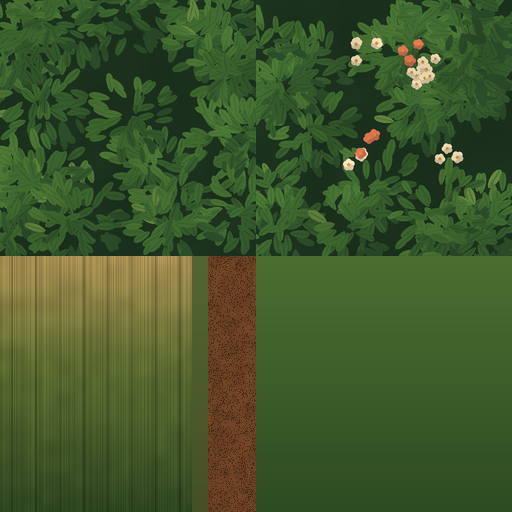
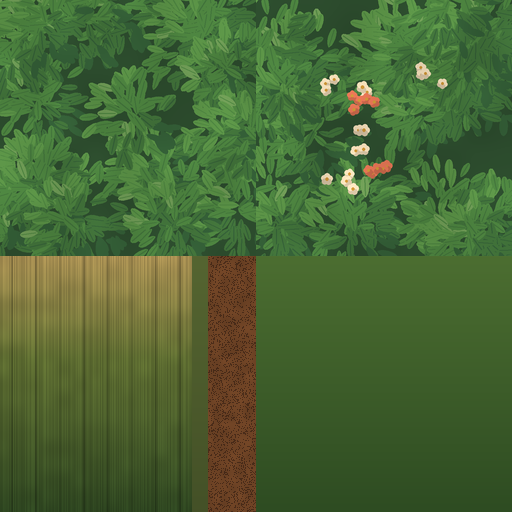
fix(garden): understory bushes soft and lighter (Fable review round 2)
No leaf-spray cards (they read as thorns). Five lobes at icosphere
subdivision 2 plus two puffs on the upper outline; faces under the lawn or
buried inside another lobe dropped: 320 tris a bush. Custom normals out from
(0, .4, 0) confirmed in the exported FBX (re-imported: 0 of 960 bush corners
flat). Vertex shade .7 to 1.0, tucks .86. Leaf atlas denser with lighter
pockets: region mean #427039 (target #3F6E3A), highlight #6E9A55. Reeds
unchanged (38). Renders redone, five views.

diff --git a/scripts/build_understory_meshes.py b/scripts/build_understory_meshes.py
@@ -11,11 +11,12 @@ forward -Z, up Y (as the nest landmark), so Roblox imports each mesh turned by p
 its origin at its bounds centre; the manifest records each mesh's bounds centre from the foot and its size, so the
 client seats it: CFrame.new(foot) * yaw * CFrame.new(centre * scale) * Turn, Size = size * scale.
 
-Budget (Fable review round 1): a bush at most 190 triangles, reeds at most 38. Reed blades and stems and the bush's
-leaf sprays are cards: each face is doubled back to back with its own vertices (Roblox culls back faces; a merged pair
-would smooth its normal to nothing). The bush's normals are custom split normals out from one point (one soft mass),
-and its shade is a vertex colour (.45 at the foot to 1.0 at the top, darker where lobes tuck together), which a MeshPart's
-TextureID multiplies (memory: roblox-surfaceappearance-runtime; the Aero falls kit ships vertex colour the same way).
+Budget (Fable review round 2): a bush at most 320 triangles, reeds at most 38. Reed blades and stems are cards: each
+face is doubled back to back with its own vertices (Roblox culls back faces; a merged pair would smooth its normal to
+nothing). The bush's normals are custom split normals out from one point (one soft mass); they reach the FBX (checked
+by re-importing it: every bush corner normal is the custom one, none flat). Its shade is a subtle vertex colour (.7 at
+the foot to 1.0 at the top, a little darker where lobes tuck together), which a MeshPart's TextureID multiplies
+(memory: roblox-surfaceappearance-runtime; the Aero falls kit ships vertex colour the same way).
 
 Writes assets/world/understory/understory.fbx and understory-manifest.json (names unique to this slice: memory note
 world-finish-template-names); with --render, renders the three meshes beside a player-height post (4.2) and a pet-size
@@ -44,11 +45,10 @@ REGION = {"bush": (0, 0, 256, 256), "flower": (256, 0, 512, 256), "blades": (0, 
           "stem": (192, 256, 208, 512), "head": (208, 256, 256, 512)}
 INSET = 4.0                                   # pixels kept off each region's edge (mip bleed)
 NAMES = {"bush": "Understory_B38_Bush", "flower": "Understory_B38_BushFlower", "reeds": "Understory_B38_Reeds"}
-TRIS_CAP = {"bush": 190, "flower": 190, "reeds": 38}
+TRIS_CAP = {"bush": 320, "flower": 320, "reeds": 38}
 BUSH_ACROSS, BUSH_TALL = 3.0, 2.0             # design size; the client scales each bush to 2.5 / 4 across
 GROUND = -.15                                 # Roblox-local y the bush's skirt sinks to (it sits, never perches)
 NORMAL_FROM = (0, .4, 0)                      # Roblox-local: every bush normal points out from here (one soft mass)
-FRINGE = 28                                   # leaf-spray cards on the upper outline and the lobe joins
 SEED = 20261127
 
 
@@ -70,28 +70,35 @@ def region_uv(name, u, v):
 
 
 # ----------------------------------------------------------------------------------------------------------- bush
-# Fable review round 1 (FIX FIRST: "mossy boulders that perch on a point"): a subdiv-2 dome and four subdiv-1 shoulder
-# lobes pushed by stronger noise (.3); under each lobe's centre the shape stops tapering, keeps its radius (flare x 1.1)
-# and drops to the ground, and the faces left wholly under the lawn are deleted; 28 leaf-spray cards break the upper
-# outline and the joins; normals point out from one point so it shades as one soft mass; one continuous dome unwrap
-# round the bush's axis (its top at the region's centre); a vertex shade .45 at the foot to 1.0 at the top, darker
-# where one lobe tucks into another.
-LOBES = (  # Roblox-local centre, radius, vertical squash, icosphere subdivisions (bmesh: 2 = 80 faces, 1 = 20)
-    ((0, 1.0, 0), 1.18, .82, 2),
-    ((.92, .6, .32), .74, .86, 1), ((-.3, .58, .9), .72, .84, 1),
-    ((-.94, .62, -.2), .76, .86, 1), ((.2, .56, -.92), .72, .84, 1),
+# Fable review rounds 1 and 2: five lobes, every one an icosphere at subdivisions 2 (bmesh: 80 faces) pushed by seeded
+# noise (.3); under each lobe's centre the shape stops tapering, keeps its radius (flare x 1.1) and drops into the lawn,
+# and the faces left wholly under the lawn or buried in another lobe are deleted, so it sits, never perches. Two small
+# round puffs on the upper outline soften the silhouette (Fable asked for two or three; two fit the 320 cap). Round 2:
+# the softness is geometry, not cards (the leaf-spray cards read as thorns and are gone).
+# Normals are custom split normals out from one point, so it shades as one soft mass; one continuous dome unwrap round
+# the bush's axis (its top at the region's centre); a subtle vertex shade, .7 at the foot to 1.0 at the top, a little
+# darker where one lobe tucks into another.
+LOBES = (  # Roblox-local centre, radius, vertical squash, icosphere subdivisions, skirt to the ground
+    ((0, 1.0, 0), 1.18, .82, 2, True),
+    ((.92, .6, .32), .74, .86, 2, True), ((-.3, .58, .9), .72, .84, 2, True),
+    ((-.94, .62, -.2), .76, .86, 2, True), ((.2, .56, -.92), .72, .84, 2, True),
+    # the puffs: small, high, no skirt (they sit in the outline, not on the lawn)
+    ((.62, 1.42, .34), .42, .9, 1, False), ((-.58, 1.38, -.3), .4, .9, 1, False),
 )
+SHADE = (.7, 1.0)          # vertex shade at the foot and the top
+TUCK = .86                 # the shade where one lobe tucks deepest into another
 
 
-def lump(bm, centre, radius, squash, subdiv, seed):
+def lump(bm, centre, radius, squash, subdiv, seed, skirt=True):
     made = bmesh.ops.create_icosphere(bm, subdivisions=subdiv, radius=1.0)
     off = Vector((seed * 3.7, seed * 1.3, seed * 2.1))
     c = bl(centre)
+    amp = .3 if skirt else .18
     for vert in made["verts"]:
         d = vert.co.normalized()
-        bump = noise.noise(d * 1.4 + off) * .3 + noise.noise(d * 3.2 + off * 2) * .08
+        bump = noise.noise(d * 1.4 + off) * amp + noise.noise(d * 3.2 + off * 2) * .08
         r = radius * (1 + bump)
-        if d.z >= 0:
+        if d.z >= 0 or not skirt:
             vert.co = Vector((d.x * r, d.y * r, d.z * r * squash)) + c
         else:
             # below the centre: no taper, the full radius flared x 1.1, straight down into the lawn
@@ -113,61 +120,42 @@ def dome_uv(region, p, centre, theta_max):
 
 
 def build_bush(name, region):
-    rnd = random.Random(SEED + 7)
     bm = bmesh.new()
     uv = bm.loops.layers.uv.new("UVMap")
     col = bm.loops.layers.color.new("Col")
     owner = {}
-    for k, (centre, radius, squash, subdiv) in enumerate(LOBES):
-        for v in lump(bm, centre, radius, squash, subdiv, k + 1):
+    for k, (centre, radius, squash, subdiv, skirt) in enumerate(LOBES):
+        for v in lump(bm, centre, radius, squash, subdiv, k + 1, skirt):
             owner[v] = k
     bmesh.ops.triangulate(bm, faces=bm.faces)
     under = [f for f in bm.faces if all(v.co.z <= GROUND + 1e-4 for v in f.verts)]
     bmesh.ops.delete(bm, geom=under, context="FACES")
-    # where one lobe tucks into another: darker (a factor per vertex, applied with the height shade below)
+
+    # faces buried inside another lobe are never seen: dropped (inside = under .62 of that lobe's radius, in its own
+    # squashed frame, the most its noise can pull a surface in)
+    def buried(co, k):
+        for j, (centre, radius, squash, _, _) in enumerate(LOBES):
+            if j == k:
+                continue
+            d = co - bl(centre)
+            if math.sqrt(d.x * d.x + d.y * d.y + (d.z / squash) ** 2) < radius * .62:
+                return True
+        return False
+    hidden = [f for f in bm.faces if all(buried(v.co, owner.get(v)) for v in f.verts)]
+    bmesh.ops.delete(bm, geom=hidden, context="FACES")
+    # where one lobe tucks into another: a little darker (a factor per vertex, applied with the height shade below)
     tuck = {}
     for v in bm.verts:
         k = owner.get(v)
         f = 1.0
-        for j, (centre, radius, _, _) in enumerate(LOBES):
+        for j, (centre, radius, _, _, _) in enumerate(LOBES):
             if j == k:
                 continue
             dist = (v.co - bl(centre)).length / radius
             if dist < 1.15:
-                f = min(f, .72 + .28 * max(0.0, (dist - .6) / .55))
+                f = min(f, TUCK + (1 - TUCK) * max(0.0, (dist - .6) / .55))
         tuck[v] = f
-    # fringe anchors: core vertices on the upper outline (far out for their height) and at the lobe joins
     axis = bl(NORMAL_FROM)
-    bm.verts.index_update()
-    cands = []
-    for v in bm.verts:
-        if v.co.z < .45 or not v.link_faces:
-            continue
-        score = math.hypot(v.co.x, v.co.y) * .6 + v.co.z * .5 + (1 - tuck[v]) * 3 + rnd.random() * .4
-        cands.append((-score, v.index, v.co.copy(), (v.co - axis).normalized()))
-    cands.sort(key=lambda c: (c[0], c[1]))
-    anchors = []
-    for _, _, co, n in cands:
-        if all((co - a).length > .42 for a, _ in anchors):
-            anchors.append((co, n))
-        if len(anchors) == FRINGE:
-            break
-    assert len(anchors) == FRINGE, len(anchors)
-    up = Vector((0, 0, 1))
-    for co, n in anchors:
-        # a spray lies along the surface toward the outline and tips out about 30 degrees, its foot buried, so only the
-        # leaf tip breaks the silhouette (straight out, the cards read as thorns)
-        along = up - n * up.dot(n)
-        along = (along if along.length > 1e-4 else n.orthogonal()).normalized()
-        direction = (along * .82 + n * .5).normalized()
-        base = co - n * .14
-        tip = base + direction * (.5 + rnd.random() * .2)
-        t = n.cross(up)
-        t = (t if t.length > 1e-4 else Vector((1, 0, 0))).normalized()
-        t = (Matrix.Rotation(rnd.uniform(-.6, .6), 3, direction) @ t).normalized()
-        w = .2 + rnd.random() * .06
-        card(bm, uv, col, [rb(base - t * w), rb(base + t * w), rb(tip)], [(0, 0)] * 3, [1, 1, 1])
-    bmesh.ops.triangulate(bm, faces=bm.faces)
     # scale to the design size: 3 across; 2 tall from the sunk skirt (GROUND stays GROUND)
     xs = [v.co.x for v in bm.verts]
     ys = [v.co.y for v in bm.verts]
@@ -185,7 +173,7 @@ def build_bush(name, region):
             p = loop.vert.co
             loop[uv].uv = dome_uv(region, p, axis, theta_max)
             h = max(0.0, min(1.0, (p.z - GROUND) / (top - GROUND)))
-            k = (.45 + .55 * h) * tuck.get(loop.vert, 1.0)
+            k = (SHADE[0] + (SHADE[1] - SHADE[0]) * h) * tuck.get(loop.vert, 1.0)
             loop[col] = (k, k, k, 1.0)
     return finish(bm, name, normals_from=axis)
 

diff --git a/scripts/draw_understory_atlas.py b/scripts/draw_understory_atlas.py
@@ -5,8 +5,9 @@
 
 Writes assets/world/understory/:
   understory-atlas.png  512 x 512 RGB, four 256 px regions (image y down; scripts/build_understory_meshes.py maps UVs):
-      A (0, 0)     round bush: about 25 leaf clusters (leaves 16 to 22 px), darker green than the lawn, matte, dark
-                   #1B3622 pockets between clusters, a rare brighter leaf. The bush's dome unwrap puts its top at the
+      A (0, 0)     round bush: about 25 leaf clusters (leaves 16 to 22 px), one step darker than the lawn, matte
+                   (Fable round 2: the region's mean is about #3F6E3A, highlights #6E9A55, never near-black), darker
+                   pockets between clusters. The bush's dome unwrap puts its top at the
                    region's centre and its foot at the rim.
       B (256, 0)   flowering bush: the same leaves (another seed) and seven sprays of three to five flowers (10 to 12 px,
                    70% cream, the rest coral) near the centre, where the unwrap puts the bush's top
@@ -38,9 +39,9 @@ COMP = (1.0, .9, .84)       # render compensation for the Aero sun (greens and b
 FLOWER_COMP = (1.0, .96, .9)
 SEED = 20261127
 
-GAP = "#1B3622"
-LEAVES = ["#2A5230", "#346333", "#3E7338", "#4A813E"]
-HIGHLIGHT = "#62924A"
+GAP = "#2C5336"
+LEAVES = ["#336740", "#407C44", "#4C904B", "#5AA153"]
+HIGHLIGHT = "#6EAB65"    # #6E9A55 after COMP
 
 
 def hexrgb(h):
@@ -87,14 +88,14 @@ def leaf_region(seed, flowers):
     # with dark pockets between them. A few clusters sit across the edges so the rim (the bush's foot) is leafy too.
     clusters = [(py.random() * n, py.random() * n) for _ in range(25)]
     for cx, cy in clusters:
-        rad = (34 + py.random() * 14) * SS
-        for _ in range(46):
+        rad = (40 + py.random() * 16) * SS
+        for _ in range(72):
             a = py.random() * math.tau
             r = rad * math.sqrt(py.random())
             x, y = cx + math.cos(a) * r, cy + math.sin(a) * r
             lit = .55 - (math.cos(a) * r + math.sin(a) * r) / (2.6 * rad)
             idx = int(max(0, min(3, round(lit * 3 + (py.random() - .5)))))
-            colour = HIGHLIGHT if (idx == 3 and py.random() < .07) else LEAVES[idx]
+            colour = HIGHLIGHT if (idx == 3 and py.random() < .14) else LEAVES[idx]
             length = (16 + py.random() * 6) * SS
             width = length * (.36 + py.random() * .1)
             # leaves point out from their cluster's middle, give or take
